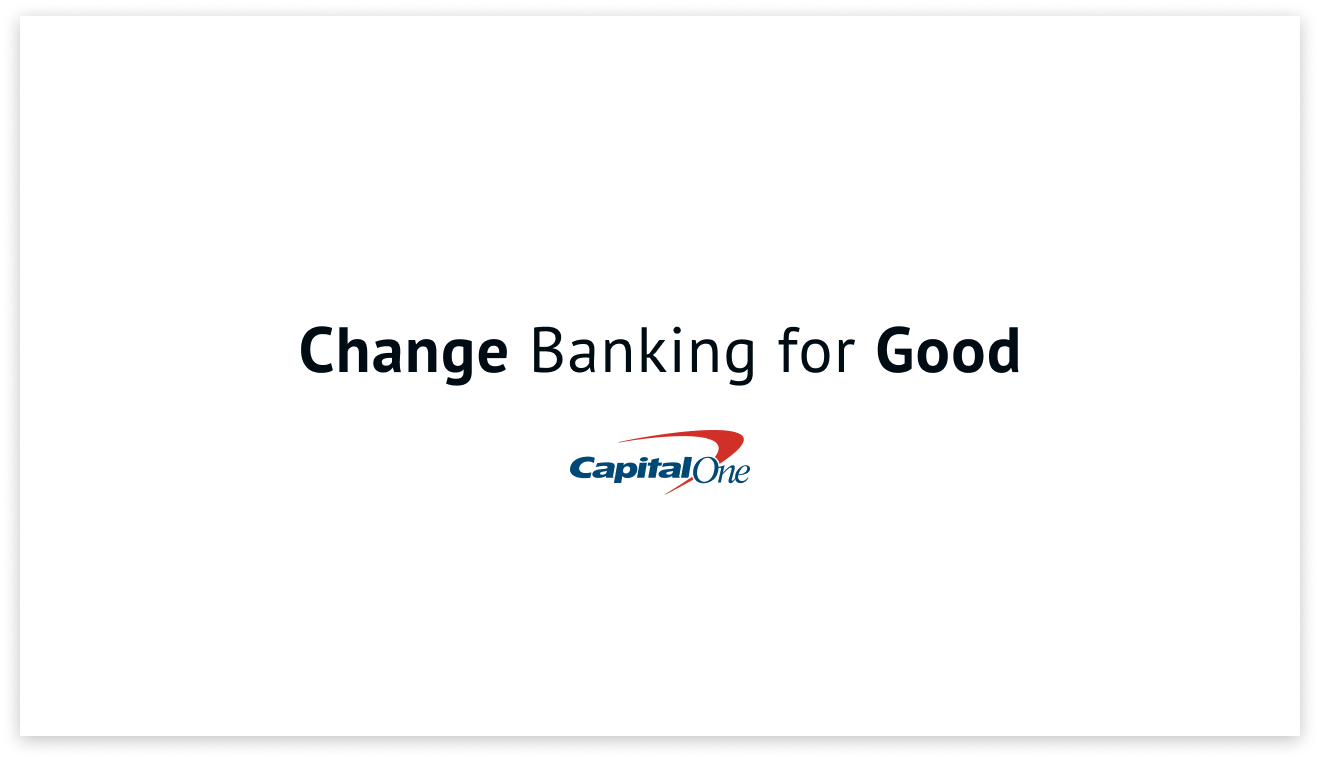
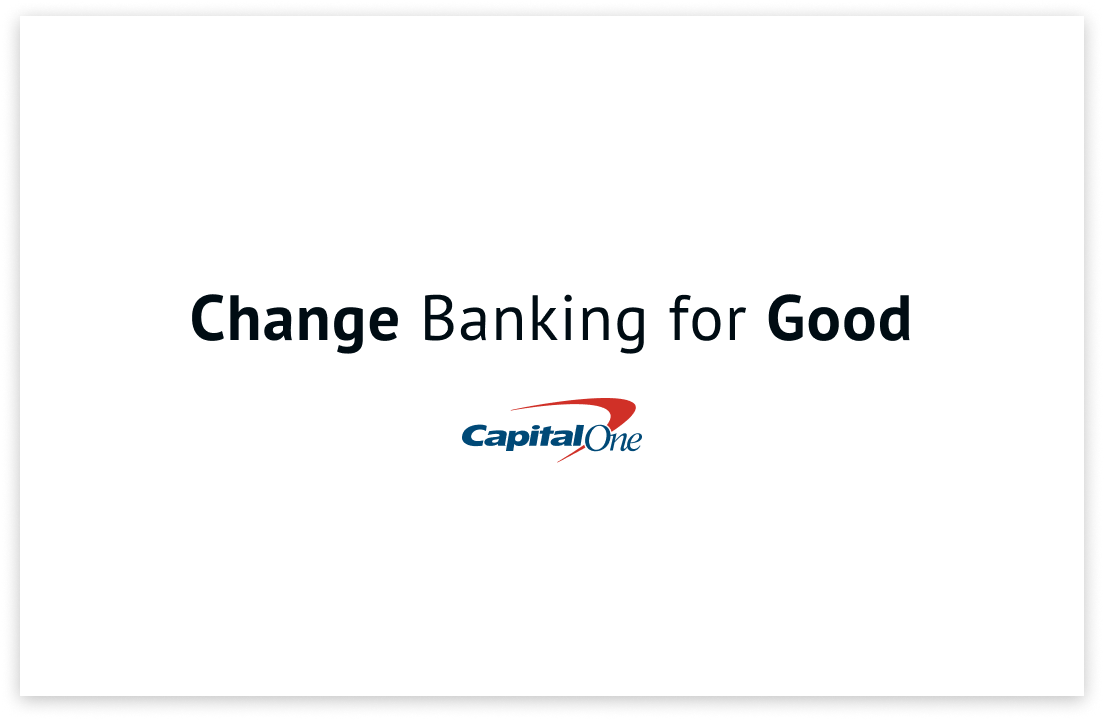
1064

Changed region(s): [[0.154, 0.3972, 0.8315, 0.5194], [0.4004, 0.55, 0.5851, 0.6417]]

diff --git a/casestudy-CapitalOne.html b/casestudy-CapitalOne.html
@@ -37,16 +37,18 @@
         <a class="nav-nextcs" href="casestudy-MomentMap.html">NEXT <i class="fas fa-caret-right"></i></a>
       </div>
     </nav>
+
     <div class="hero-cs">
-      <h2 class="hero-tagline">Elevating the Innovation Team to the Customer View</h2>
+      <h2 class="hero-tagline">Designing for Unpredictability in the Human Experience</h2>
       <div class="hero-desc">
-        <img class="hero-desc-logo" src="assets/csCapitalOne/images/CapitalOneLogoIcon.svg"/>
-        <p class="hero-desc-text">Innovating from a deep understanding of customers' lived experiences</p>
+        <img class="hero-desc-logo" src="assets/csCapitalOne/images/CapitalOneLogoIcon.svg" />
+        <p class="hero-desc-text">Elevating the Innovation Team to the Customer View</p>
       </div>
       <div class="heroImageContainer">
-        <img class="heroImage" src="assets/csCapitalOne/images/heroCapitalOne.svg" />
+        <img class="heroImage" src="assets/csCapitalOne/images/heroCapitalOne.png" />
       </div>
     </div>
+
   </header>
 
 
@@ -126,7 +128,7 @@
       <!-- <div class="hero-cs">
         <h2 class="hero-tagline">Please <a class="link-ref" href="contact.html" target="_blank">contact</a> me to learn more</h2>
       </div> -->
-      <img class="img-centeredandreduced" src="assets/csCapitalOne/images/heroCapitalOne.svg"/>
+      <img class="img-centeredandreduced" src="assets/csCapitalOne/images/heroCapitalOne.png"/>
     </div>
     <!-- end of fullbleed img -->
 
